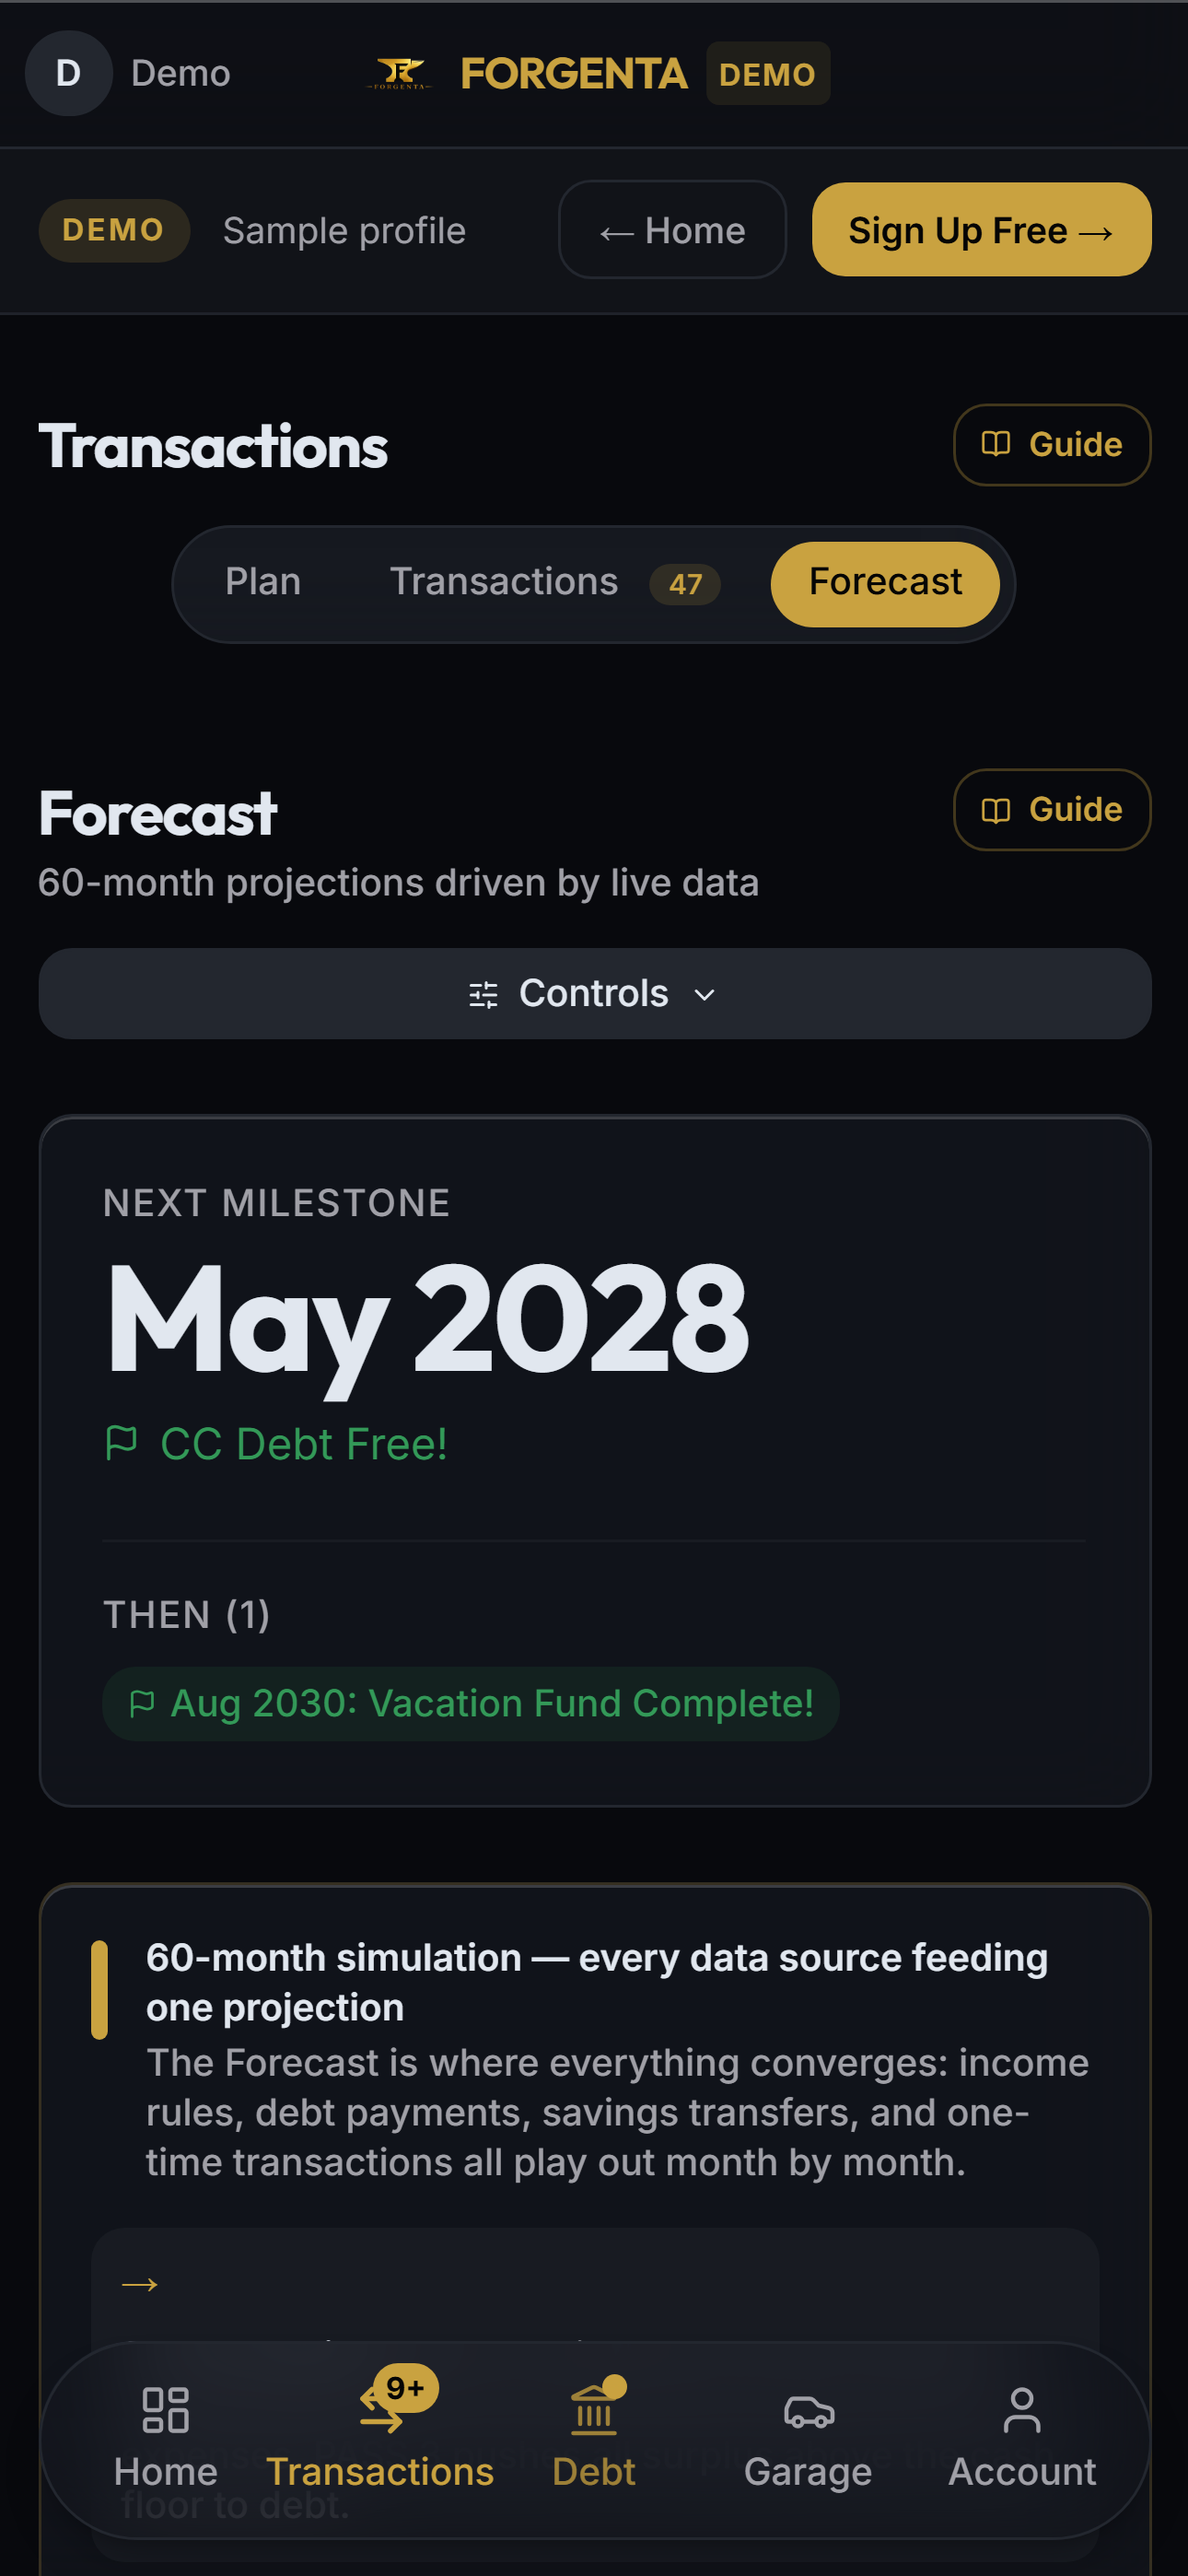
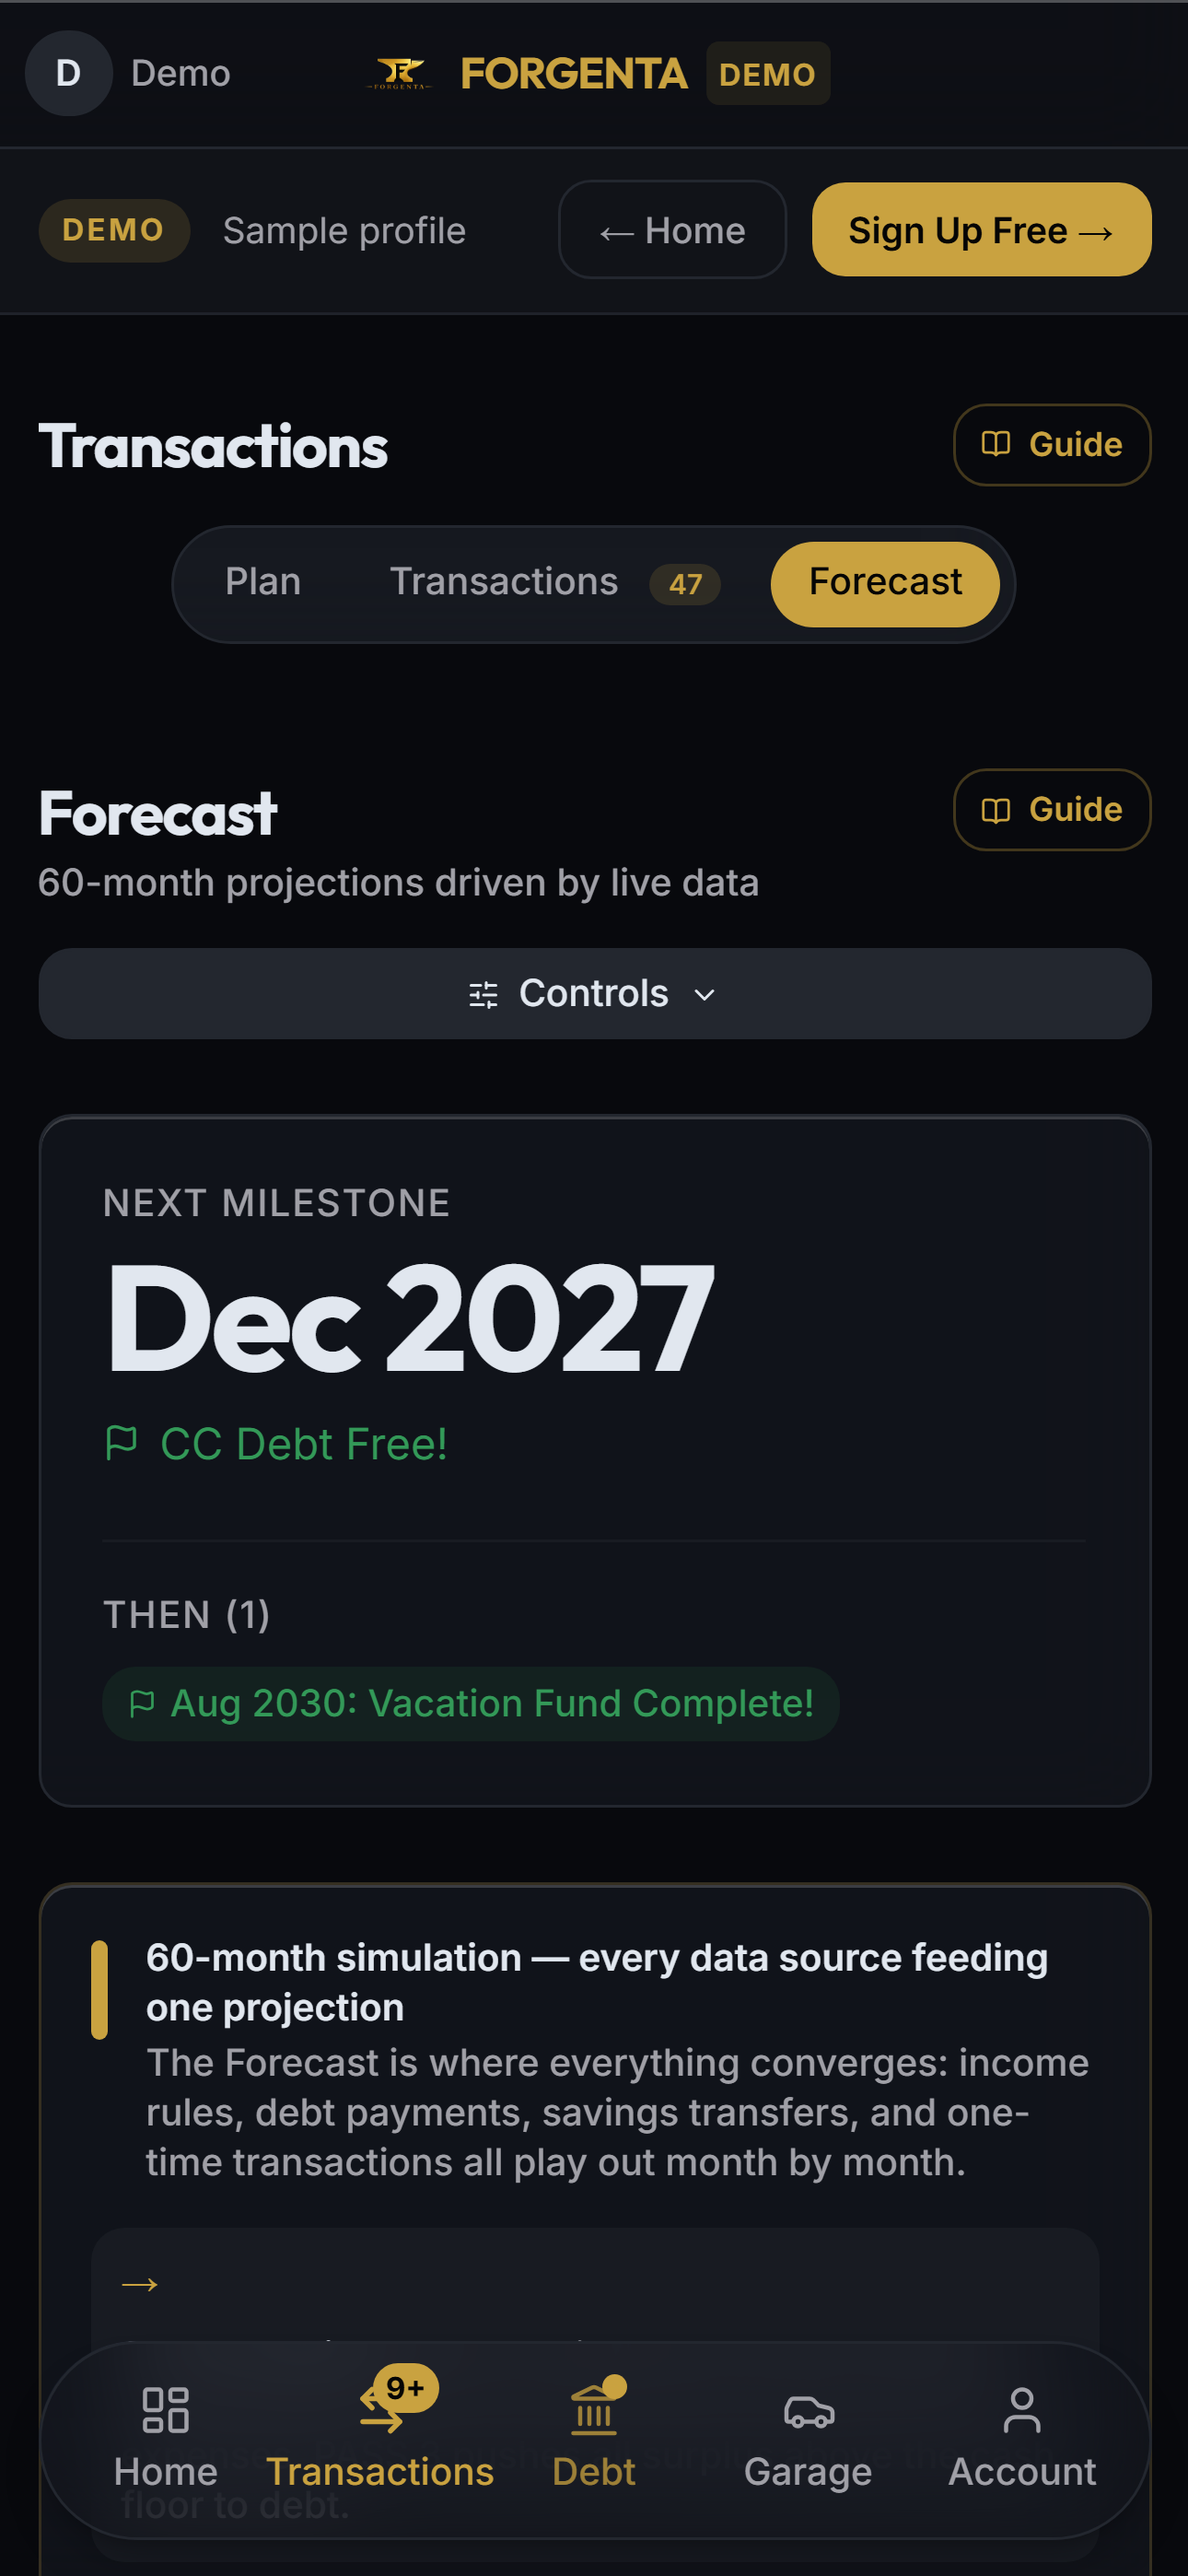
[marketing]: store frames re-shot after the persona change, by a committed capture script
167f200b moved demo checking from 2,847 to 4,231, and c389c9af fixed the convergence loop. So three
figures in Ruby's set were stale: net worth 12,452 -> 13,836, card payoff May 2028 -> Dec 2027, and
the Civic 2,847 -> 4,231 of 5,590 down.

New scripts/capture-store-frames.mjs re-shoots all 14 frames (8 phone at 1290x2796, 6 iPad at
2064x2752, dark) from /demo. Before it saves a frame, it asserts that the screen's marker text is
visible and that the cookie banner is gone. It exits 1 on any failed frame and 2 on no frames.
It refused 7 frames on its first run, then refused a run with the banner still showing: the Reject
button's accessible name is "Reject non-essential", and hidden breakpoint duplicates took the
first clicks. Its final run saved 14 of 14.

Positive control: phone 02/03/05 and iPad 03/05, whose screens carry no changed figure, came out
BYTE-IDENTICAL to the earlier ad hoc set. So the script reproduces the old captures exactly, and only
the frames with moved figures differ (9 files). Frames 01, 04 and 08 were read by eye at the new
figures. Security: it reads localhost by default, writes only its out dir, and uses no credentials.
Nothing is uploaded. Undo: git revert.

Release-Note: none

Claude-Session: https://claude.ai/code/session_012PmZc9zWjYLeWZ7vF1sSSP

Changed region(s): [[0.093, 0.4667, 0.6512, 0.5601]]

diff --git a/marketing/app-store/2026-09-23/README.md b/marketing/app-store/2026-09-23/README.md
@@ -11,18 +11,20 @@ Raw material for Ruby's screenshot set (ask 781edc28). **These are unframed capt
 - **Cookie banner:** rejected before the first frame, so the capture fired no analytics. No frame shows the banner.
 - **DEMO chrome is kept** (the top "DEMO / Sample profile / Sign Up Free" bar). Every frame is an unaltered render. Hiding the bar would take DOM edits that the shipped app does not have. Crop it in framing if you want it gone.
 
+**RE-SHOT 2026-09-23 after `167f200b`** (checking 2,847 -> 4,231, ask b0822110) and `c389c9af` (engine convergence fix), with `node scripts/capture-store-frames.mjs <dir>`. That script asserts each screen's marker text and that the cookie banner is gone before it saves a frame. All 14 frames replace the earlier ones at the same paths, and git history holds the old set.
+
 ## Frames
 
 | File | Screen | What it shows |
 |---|---|---|
-| `01-dashboard.png` | Dashboard, Overview | Net worth $12,452 ($53,195 assets, $40,743 liabilities); "CREDIT CARDS PAID OFF May 2028, 1 yr 8 mo away" |
+| `01-dashboard.png` | Dashboard, Overview | Net worth $13,836 ($54,579 assets, $40,743 liabilities); "CREDIT CARDS PAID OFF Dec 2027, 1 yr 3 mo away" |
 | `02-debt.png` | Debt Payoff | Avalanche guide card, Credit Card Payoff / Auto Loans tabs |
 | `03-decisions.png` | Transactions, Decision Deck | "Marketway Foods -$118 - Is this your Groceries?" (1 of 78) |
-| `04-forecast.png` | Transactions, Forecast tab | "NEXT MILESTONE May 2028 - CC Debt Free!" |
+| `04-forecast.png` | Transactions, Forecast tab | "NEXT MILESTONE Dec 2027 - CC Debt Free!", then "Aug 2030: Vacation Fund Complete!" |
 | `05-plan.png` | Transactions, Plan tab | Recurring-rules guide card |
 | `06-accounts.png` | Dashboard, Accounts | Net worth tiles, then the accounts guide card |
 | `07-goals.png` | Dashboard, Goals | Net worth tiles, Add Goal, the goals guide card |
-| `08-garage.png` | Garage, Vehicles | 2024 Honda Civic (saving, $2,847 of $5,590 down), Toyota RAV4 (owned, loan) |
+| `08-garage.png` | Garage, Vehicles | 2024 Honda Civic (saving, $4,231 of $5,590 down), Toyota RAV4 (owned, loan) |
 
 Strongest in Ada's view: 01, 04 and 03. They carry a date and a decision, the things this app does that a spreadsheet does not. 06 and 07 are mostly guide-card text above the fold.
 
@@ -33,5 +35,5 @@ The same six screens Ruby used (01, 02, 03, 04, 05, 08). They are captured at 10
 ## Limits
 
 - Every figure is what the engine computed on 2026-09-23. A later fixture change can move it. Read the figures back off the PNG before you caption.
-- `demo-marketing-lines.engine.test.ts` reads the app's own provider since `93ee4587` (ask 16147de8), so its figures now match what /demo computes. Its clock is pinned to 2026-09-03, so its dates can differ by a month from these 09-23 frames (Jun 2028 against May 2028).
+- `demo-marketing-lines.engine.test.ts` reads the app's own provider since `93ee4587` (ask 16147de8), so its figures now match what /demo computes. Its clock is pinned to 2026-09-03, so its dates can differ from these 09-23 frames (both read Dec 2027 since `167f200b`).
 - Light mode, and phone sizes other than 6.7"/6.9", are not captured.
